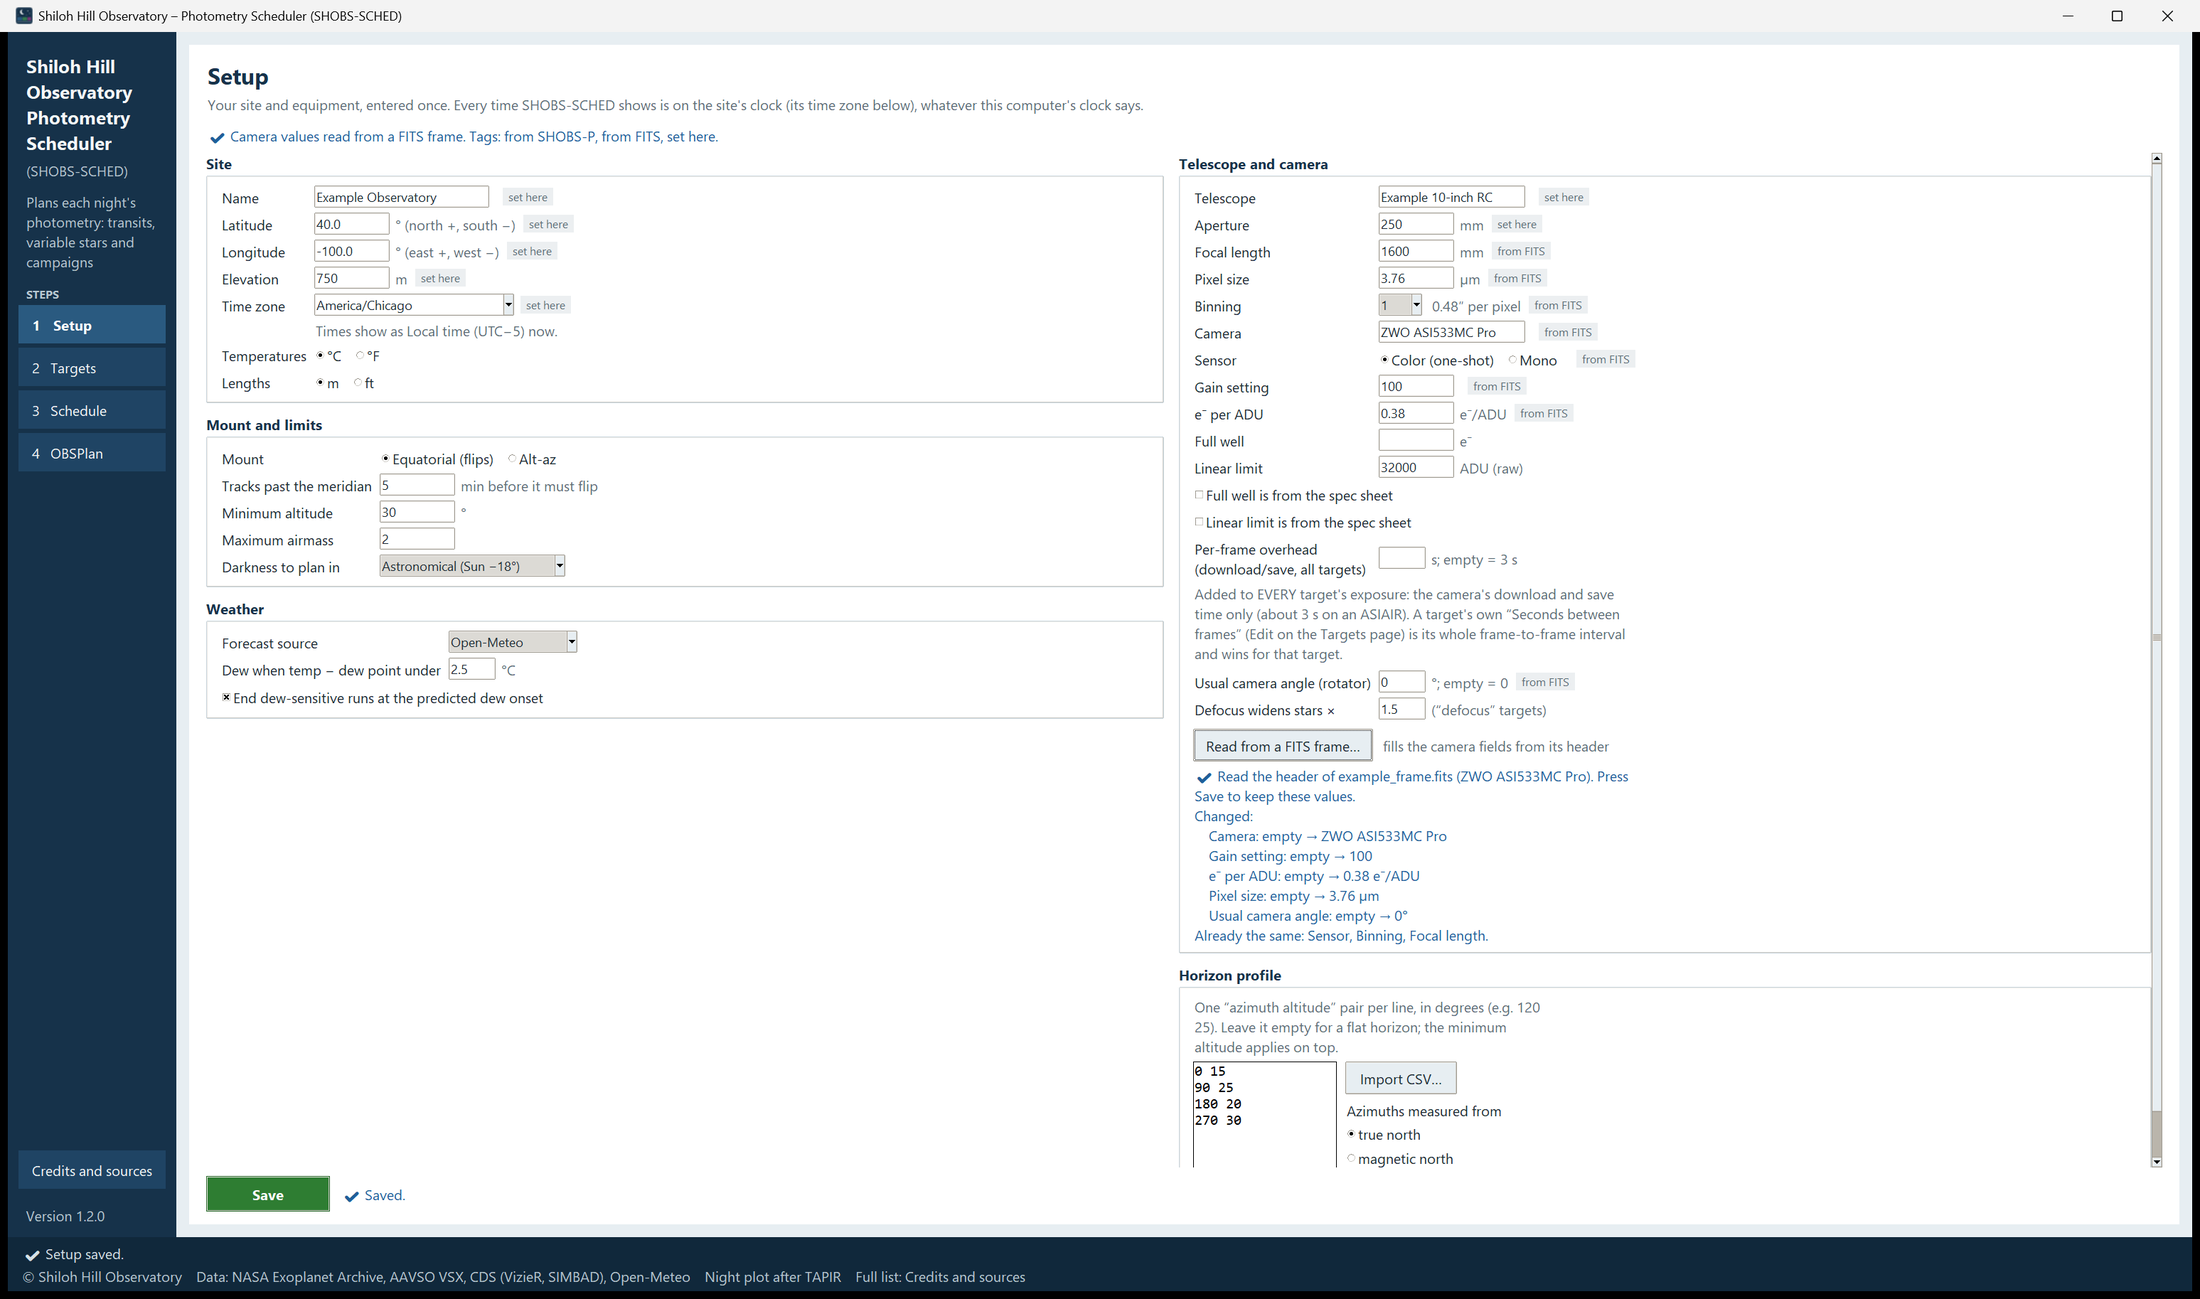
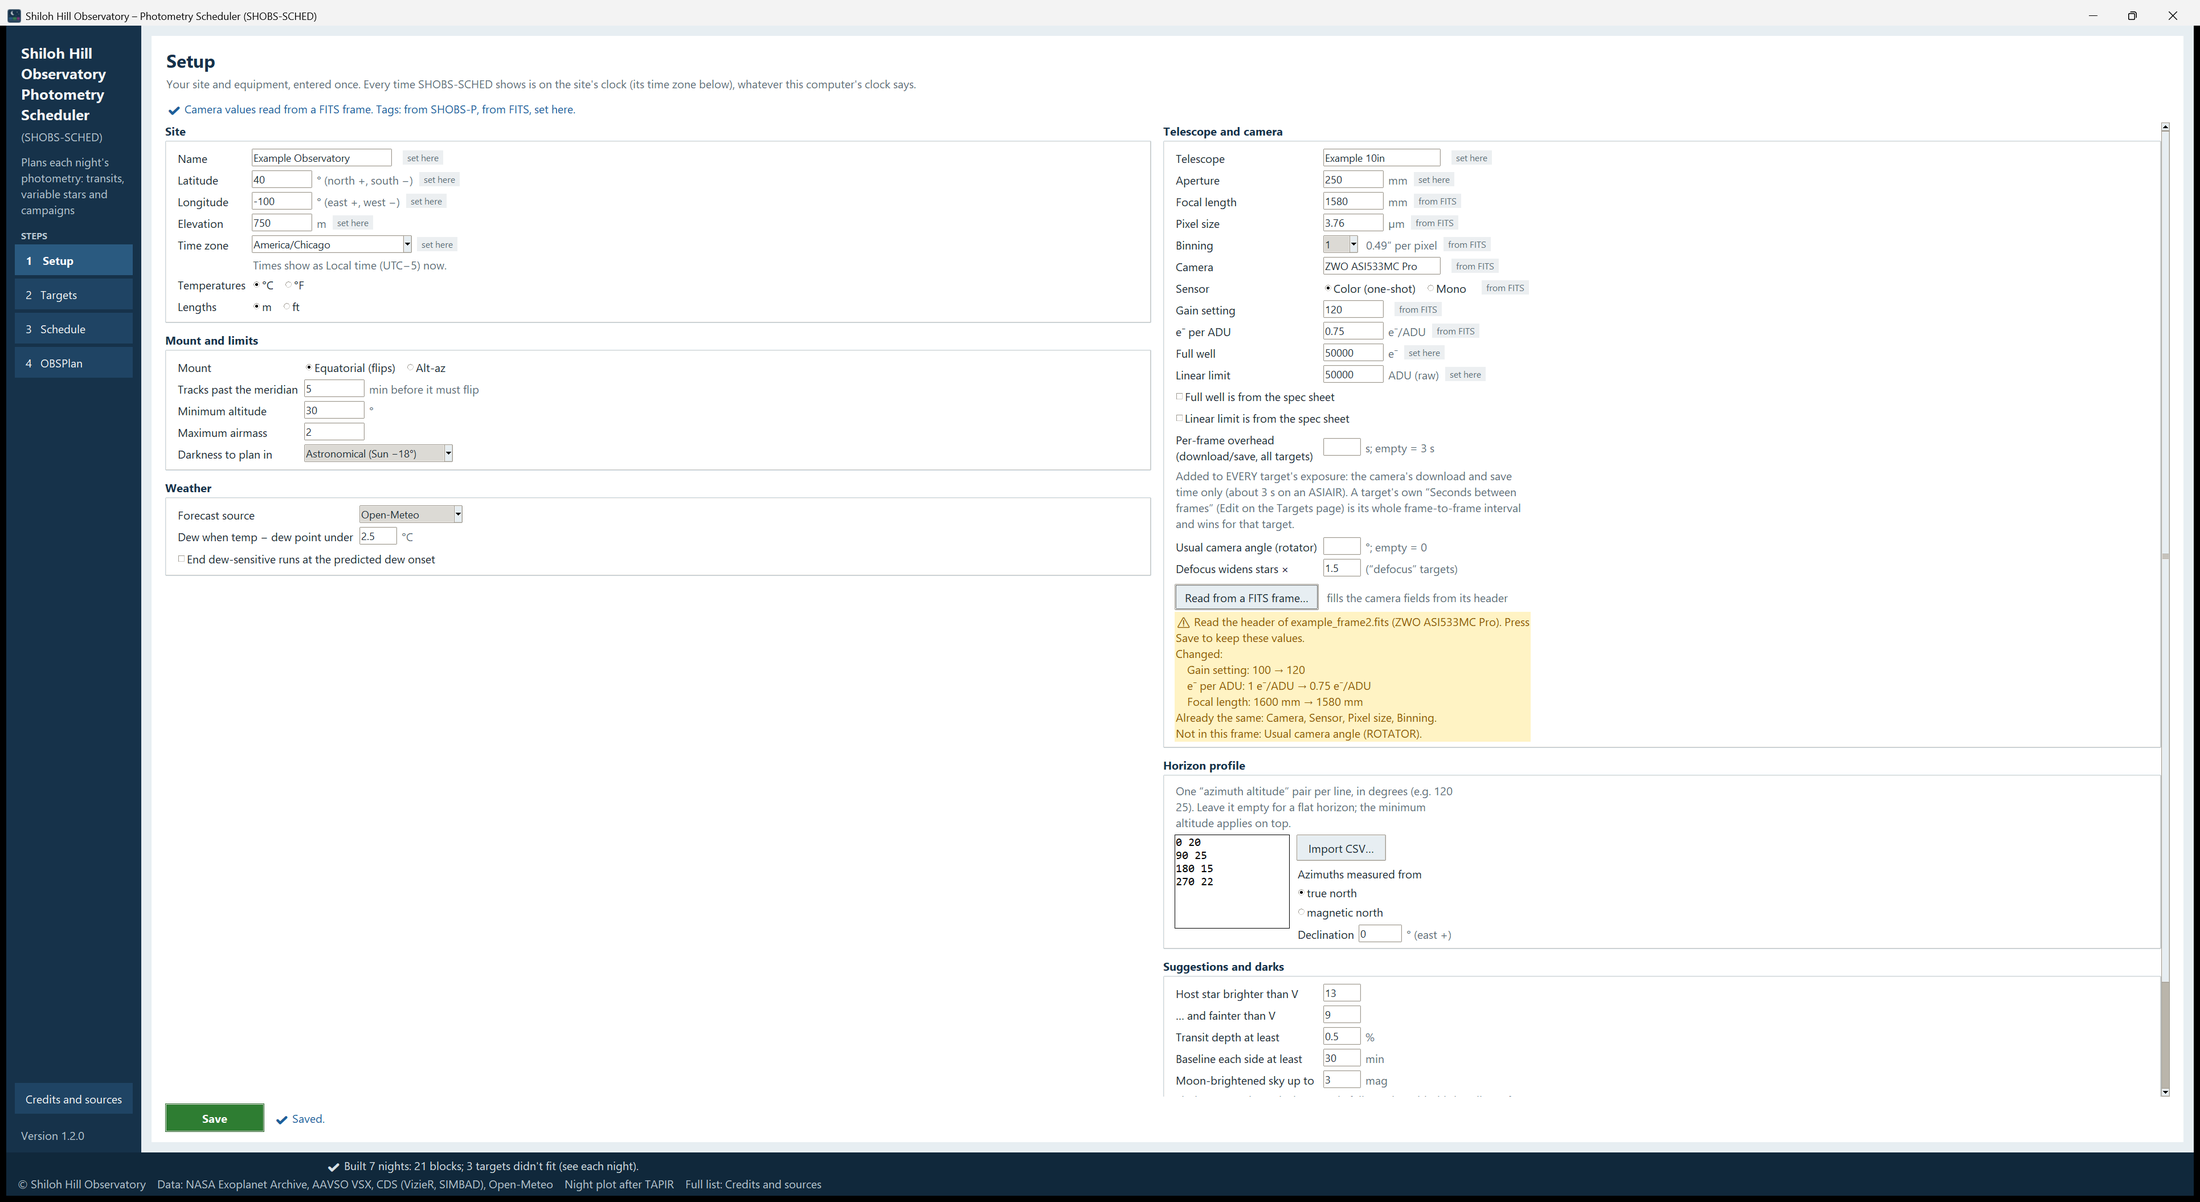
Manual 1.2.0: Fable review fixes (VSX timeout text, captions, flip wording, EB half-width, exposure ✖, 14 nights), FITS summary and busy bar reshot on 1.2.0
Claude-Session: https://claude.ai/code/session_01FUz9tFr61RYDX7PGSTY7De

Changed region(s): [[0.0, 0.0, 1.0, 1.0]]

diff --git a/docs/manual/_shots.md b/docs/manual/_shots.md
@@ -1,6 +1,6 @@
 # Screenshots (SHOBS-SCHED manual, 1.2.0 edition)
 
-Retaken for 1.2.0 on 31 Oct 2026 (maximized window, resized to 2200 px wide). `04-fits-summary.png` and `02-create-shortcuts.png` are the 1.1.0 captures (only the sidebar version was updated on the first).
+Retaken for 1.2.0 on 31 Oct 2026 (maximized window, resized to 2200 px wide). `02-create-shortcuts.png` is kept from 1.1.0: the Windows setup did not change.
 
 Every image the manual refers to, with the window and state it should show. Take them on Windows, with the
 example site (Example Observatory, latitude 40.0, longitude −100.0, America/Chicago, a 0.25 m telescope). Never use
@@ -15,16 +15,16 @@ the real observatory's coordinates or name. Save as PNG in `docs/manual/img/` wi
 | `img/03-targets-two.png` | 3 | The Targets page with WASP-12 b in the Transits box and DY Peg in the Variables box, both ticked ☑, their event columns filled; the result line "✔ Added DY Peg (VSX)." beside Add. |
 | `img/03-night-tab.png` | 3 | The Schedule page after Build schedule: a night tab selected, the night's line (dark, Moon, weather), the night plot with a green transit block and a navy variable block, and the nightly table with both rows; "✔ Built … nights" in the message line. |
 | `img/04-setup-page.png` | 4 | The whole Setup page in its two-column layout: Mount and limits and Weather on the left with Site; Telescope and camera, Horizon profile (a few az/alt lines) and Suggestions and darks (with darks on hand) on the right; the source line at the top; Save at the bottom. |
-| `img/04-fits-summary.png` | 4 | The Telescope and camera box right after Read from a FITS frame…: the "✔ Read the header of … Press Save to keep these values." summary with its "Changed:" list (old → new), and "from FITS" tags beside the filled fields. |
+| `img/04-fits-summary.png` | 4 | The Telescope and camera box right after Read from a FITS frame…: the "⚠ Read the header of … Press Save to keep these values." summary (⚠ because the example frame has no ROTATOR) with its "Changed:" list (old → new), and "from FITS" tags beside the filled fields. |
 | `img/05-targets-page.png` | 5 | The Targets page with several targets in all three boxes (a campaign with "This week" progress, transits with Night/Ingress/Mid/Egress, variables with "min …"/"any time"), a mix of ticked and unticked (gray) rows, one row selected with its details line, the Nights row, and the buttons at the bottom. |
 | `img/05-edit-dialog.png` | 5 | The Edit dialog for a campaign on a planet-host star (a made-up or public example such as HD 219134): Target and Observing fields, the "No data while a planet transits" part with the Archive result line, the ticked transiting planets, a grayed non-transiting planet, the window list, and Notes. |
 | `img/05-find-variables.png` | 5 | The Find suggested variables window: Types ticks (first four ticked), Include uncertain types, Period (days/hours), Brightness, Amplitude at least, Show at most, the Nights line, Search and Cancel. |
 | `img/06-night-tab.png` | 6 | One night tab in detail: the night's line, a ⚠ dew line, the weather strip (cloud bars, temperature and dew-point lines, spread numbers, the dashed dew-onset line), the night plot with twilight shading, the Moon's dashed gold line, a transit with its green band and lighter baselines, a ▼ flip marker, label boxes; the nightly table with one row selected (highlighted on the plot); the Lock / Remove / Move to night… / Edit times… / Status row; and the Flats and darks, Didn't fit (with a Plan this instead button) and Free time boxes. |
 | `img/07-obsplan-page.png` | 7 | The OBSPlan page: the night ticks, Print plan card with Include night plots ticked, the position-angle line, the ASIAIR export folder line, and one night of the on-screen card (date heading with Export to ASIAIR, Export to NINA and Copy ASIAIR list; the facts line; the table; Flats/Darks/Free time lists), with an "✔ ASIAIR: saved …" result line and its Open folder / Open in Notepad / Show file contents buttons. |
 | `img/07-plan-card-print.png` | 7 | The printed plan card open in a web browser: "Photometry plan, <dates>" title, the site line (Example Observatory, 40.000° N, 100.000° W), one night's facts and weather line, its night plot (print style), and the start of the nightly table. |
-| `img/08-busy-bar.png` | 8 | A close-up of the lower left of the main window during Build schedule: the back-and-forth busy bar in the status strip with "Building 7 nights…" beside it (a second shot with "Getting the forecast from Open-Meteo…" is welcome). |
+| `img/08-busy-bar.png` | 8 | A close-up of the lower left of the main window during a long job: the busy bar in the status strip with its words beside it (1.2.0 shot: Find suggested variables; a build on a fast PC is over before the bar can be caught). |
 | `img/09-credits-page.png` | 9 | The Credits and sources page: "SHOBS-SCHED 1.2.0 © 2026 Shiloh Hill Observatory", the license line, the list (CATALOGS AND SERVICES first), Save credits as text… and Back. |
 | `img/05-find-transits.png` | 5 | The Find suggested transits window: its text naming Setup's "Suggestions and darks" box and the values, Show at most, the Nights line, Search and Cancel. |
 | `img/05-remove-dialog.png` | 5 | The app's own Remove targets window: "Remove DY Peg from the list? …" with Remove and Cancel. |
 | `img/06-night-tab-lower.png` | 6 | A second night: a block with "stop by … at the latest", a transit whose Meridian reads "(flip)", its "⚠ Meridian flip during the transit" caution, the tab marked ⚠. |
-| `img/08-busy-bar-find.png` | 8 | The busy bar during Find suggested transits, showing the stage and its count ("…: the best with their most precise ephemeris… 8 of 37"). |
+| `img/08-busy-bar-find.png` | 8 | The busy bar during Find suggested transits, showing the stage and its count ("…: the best with their most precise ephemeris… 10 of 37"). |

diff --git a/docs/manual/05-targets.md b/docs/manual/05-targets.md
@@ -120,8 +120,8 @@ How the name is looked up:
    Spellings are forgiving: `wasp-12b`, `WASP 12 b` and `WASP-12 b` all work.
 2. Otherwise, a **variable star** is looked up at **AAVSO VSX**, or VizieR's copy of it when VSX does not answer. You
    get its type, period, epoch and range. Eclipsing binaries are planned at their minima (each minimum covered ±60
-   minutes, or more for a long eclipse when VSX gives the eclipse length); pulsating and long-period stars are planned
-   at any time of night.
+   minutes, or ±0.6 × the eclipse length when VSX gives it, between ±20 and ±240 minutes); pulsating and long-period
+   stars are planned at any time of night.
 3. Otherwise, the star's position is looked up at **SIMBAD**, and a window asks what the star is for you (below).
    SHOBS-SCHED asks SIMBAD at the CDS (Strasbourg) first, then its mirror at IDIA (Cape Town) when the CDS does not
    answer. When SIMBAD does not answer at all, or does not know the name, a planet host's position is taken from
@@ -147,7 +147,9 @@ Some results need a word from you:
   SIMBAD counts as SIMBAD not answering (next point), so a problem on SIMBAD's side is never reported as a wrong
   name.
 - **A service that does not answer.** If the name was looked up before, the saved copy is used, and the result
-  line says so with a ⚠: *⚠ Added DY Peg (VSX). AAVSO VSX did not answer (no answer within 30 s); using the copy from 3 days ago.*
+  line says so with a ⚠: *⚠ Added DY Peg (VSX). AAVSO VSX did not answer (no answer within 10 s; VizieR's copy:
+  service unavailable, HTTP 503); using the copy from 3 days ago.* (VSX is given 10 seconds, then VizieR's copy is
+  tried; the saved copy is used only when both fail, so both reasons are named.)
   If not, it says so in plain words, for example *✖ The NASA Exoplanet Archive did not answer (service unavailable,
   HTTP 503) and there is no saved copy for WASP-12 b. Try again later.* SIMBAD is the same: when neither SIMBAD
   (at the CDS or its mirror) nor the Archive can give the star's position, the line says, for example, *✖ SIMBAD did
@@ -215,7 +217,7 @@ others.
 **Observing**, **Ephemeris** (transits only), **No data while a planet transits** and **Notes**. The dialog sizes
 itself to its contents and scrolls if it is taller than the screen.
 
-![The Edit dialog for the HD 219134 campaign: Target, Observing (goal 3 nights a week), No data while a planet transits with planets b and c ticked and d, f, g, h grayed, and Notes](img/05-edit-dialog.png)
+![The Edit dialog for the HD 219134 campaign: Target, Observing (block length 120, shortest useful block 45, goal 0), No data while a planet transits with planets b and c ticked and d, f, g, h grayed, and Notes](img/05-edit-dialog.png)
 
 ### Target
 
@@ -242,7 +244,8 @@ period and Tc; if it has transiting planets, the dialog suggests adding the plan
 Why an own exposure matters: the estimate is a cold start, good to within a factor of two or so. Once you know what
 works for a star (from SHOBS-P's peak values, for example), type it here. The planner then predicts the peak for your
 exposure and warns (*⚠ estimate: peak ~52k, near your 32k limit — check a frame*) only when it looks clearly too
-long (over 1.5 × your limit).
+long (over 1.5 × your limit); past twice the limit the line is a ✖ (*… over twice your 32k limit — shorten 60 s or
+defocus*).
 
 ### Ephemeris (transits)
 

diff --git a/docs/manual/08-busy-bar-and-messages.md b/docs/manual/08-busy-bar-and-messages.md
@@ -10,7 +10,7 @@ Whenever SHOBS-SCHED is working on something that takes more than a moment, a bu
 the window**, in the status strip. A small bar moves back and forth, and the words beside it say what the program is
 doing. This is the same in every SHOBS program.
 
-![The busy bar at the lower left of the window, in the status strip, with "Working out twilight and Moon times…" (the last step of Build schedule) beside it](img/08-busy-bar.png)
+![The busy bar at the lower left of the window, in the status strip, with "Finding suggested variables (VSX at VizieR; up to a minute or two)…" beside it](img/08-busy-bar.png)
 
 You see it while SHOBS-SCHED is:
 
@@ -36,7 +36,7 @@ Some things to know:
   planet… 291 of 302*), then checks the best of them again with each planet's most precise ephemeris (*Finding
   suggested transits: the best with their most precise ephemeris… 12 of 50*).
 
-![The busy bar with "Finding suggested transits: the best with their most precise ephemeris… 8 of 37": the second pass of the search](img/08-busy-bar-find.png)
+![The busy bar with "Finding suggested transits: the best with their most precise ephemeris… 10 of 37": the second pass of the search](img/08-busy-bar-find.png)
 
 - **Dialogs have their own busy bar.** The Edit dialog's planet lookup, for example, shows its busy bar at the
   **dialog's** lower left (*Looking up HD 219134's planets at the NASA Exoplanet Archive…*), so the main window stays
@@ -58,7 +58,7 @@ button. It starts with an icon and is colored to match:
 | Icon | Color | Meaning | Example |
 |---|---|---|---|
 | **✔** | blue on white | Done, as asked. | *✔ Added DY Peg (VSX).* |
-| **⚠** | dark amber on pale yellow | Done, but read this: a caution, a saved copy used, something left out. | *⚠ Added BL Cam (VSX). AAVSO VSX did not answer (no answer within 30 s); using the copy from 3 days ago.* |
+| **⚠** | dark amber on pale yellow | Done, but read this: a caution, a saved copy used, something left out. | *⚠ Added BL Cam (VSX). AAVSO VSX did not answer (no answer within 10 s; VizieR's copy: service unavailable, HTTP 503); using the copy from 3 days ago.* |
 | **✖** | red | Not done, and why. | *✖ The NASA Exoplanet Archive did not answer (service unavailable, HTTP 503) and there is no saved copy for WASP-12 b. Try again later.* |
 
 A short **✔** line beside a button, such as **✔ Done** or *✔ Added DY Peg (VSX).*, fades after a few seconds. A **⚠**

diff --git a/docs/manual/04-setup.md b/docs/manual/04-setup.md
@@ -140,7 +140,7 @@ The TELESCOP keyword is not used: ASIAIR writes the mount driver's name there, n
 
 Values read from a frame are tagged *from FITS* and win over SHOBS-P's. Type over one and it becomes *set here*.
 
-![The Read from a FITS frame summary: "✔ Read the header of …", the changed values listed old → new](img/04-fits-summary.png)
+![The Setup page right after Read from a FITS frame…: the summary "⚠ Read the header of example_frame2.fits (ZWO ASI533MC Pro). Press Save to keep these values.", the Changed: list (Gain setting 100 → 120, e⁻ per ADU 1 → 0.75, Focal length 1600 → 1580 mm), the values already the same, the keyword not in this frame (ROTATOR, hence ⚠), and the *from FITS* tags](img/04-fits-summary.png)
 
 ## Mount and limits
 
@@ -163,8 +163,9 @@ and any-time variables) are placed a little differently.
 
 For every block:
 
-- **It never starts a block within an hour after its target's meridian.** A start there would make the mount flip
-  at once, while the run is under way.
+- **It avoids starting a block within an hour after its target's meridian.** A start there would make the mount flip
+  at once, while the run is under way. When nothing else fits, the block gets *⚠ Starts 20 min after its meridian:
+  the mount may flip at once (start before 22:40 if you can)*.
 - **A block that ends just past the meridian** but inside your **Tracks past the meridian** margin needs no flip at
   all. The note says, for example, *Ends 3 min past its meridian, inside your tracking margin; stop by 03:38 at the
   latest*.

diff --git a/docs/manual/03-first-night.md b/docs/manual/03-first-night.md
@@ -42,7 +42,7 @@ tagged *from SHOBS-P*; check them and go on.
 3. The busy bar appears at the lower left of the window, in the status strip, with the words *Looking up WASP-12
    b…*. When it finishes, a result line appears beside the **Add** button, for example *✔ Added WASP-12 b (NEA, most
    precise).* The planet is in the **Transits** box, ticked to plan (☑).
-4. Type `DY Peg` and press **Enter**. It is looked up at AAVSO VSX (or its copy at VizieR, as in the picture) and
+4. Type `DY Peg` and press **Enter**. It is looked up at AAVSO VSX (or its copy at VizieR when VSX does not answer) and
    lands in the **Variables** box, also ticked.
 
 Each row shows the target's next event in the planned nights: for a transit, the night and its ingress, mid and egress

diff --git a/docs/manual/02-installing.md b/docs/manual/02-installing.md
@@ -47,7 +47,7 @@ with the reason. Install Python from python.org (tick **Add python.exe to PATH**
 again. If it says `The shortcuts could not be made. Leave this window open and copy the message above.`, the lines
 above it say why.
 
-![Create shortcuts.bat finishing: the Python it chose, the packages checked, and "Done."](img/02-create-shortcuts.png)
+![Create shortcuts.bat finishing: the packages checked, the two shortcuts made, and "Done."](img/02-create-shortcuts.png)
 
 > **Tip:** To pin SHOBS-SCHED to the taskbar, open the Start menu, right-click **SHOBS-SCHED** and choose **Pin to
 > taskbar**. The pin keeps the SHOBS-SCHED icon (not Python's).

diff --git a/README.md b/README.md
@@ -78,7 +78,7 @@ Settings live in your home folder: `.shobs_sched_settings.json`, `.shobs_sched_t
 
 ## Documentation
 
-**[The SHOBS-SCHED User's Manual](docs/manual/README.md)** (written for version 1.2.0; the 1.2.0 changes are listed in the README above) walks you through the program step by
+**[The SHOBS-SCHED User's Manual](docs/manual/README.md)** (written for version 1.2.0) walks you through the program step by
 step: installing, your first night, the Setup, Targets, Schedule and OBSPlan pages, the busy bar and messages,
 troubleshooting and a glossary. A PDF of the whole manual can be built with `python tools/build_manual_pdf.py`.
 

diff --git a/docs/manual/06-schedule.md b/docs/manual/06-schedule.md
@@ -21,7 +21,7 @@ This chapter covers:
 ## Build a schedule
 
 1. At the top of the page, choose **Nights** (1 to 7) and the **first night**. The first night is tonight by
-   default; pick one of the next 14 nights from the list, or type any date (`2026-11-03`, `3 Nov`). These are the
+   default; pick tonight or one of the next 13 nights from the list, or type any date (`2026-11-03`, `3 Nov`). These are the
    same nights as the Targets page's **Nights** row.
 2. Press **Build schedule**.
 3. The busy bar at the lower left of the window shows each step: *Getting the forecast from Open-Meteo…*, then

diff --git a/docs/manual/README.md b/docs/manual/README.md
@@ -42,4 +42,4 @@
     photometry words this manual uses.
 
 ---
-*Screenshots taken from SHOBS-SCHED 1.1.0 on Windows.*
+*Screenshots taken from SHOBS-SCHED 1.2.0 on Windows.*
